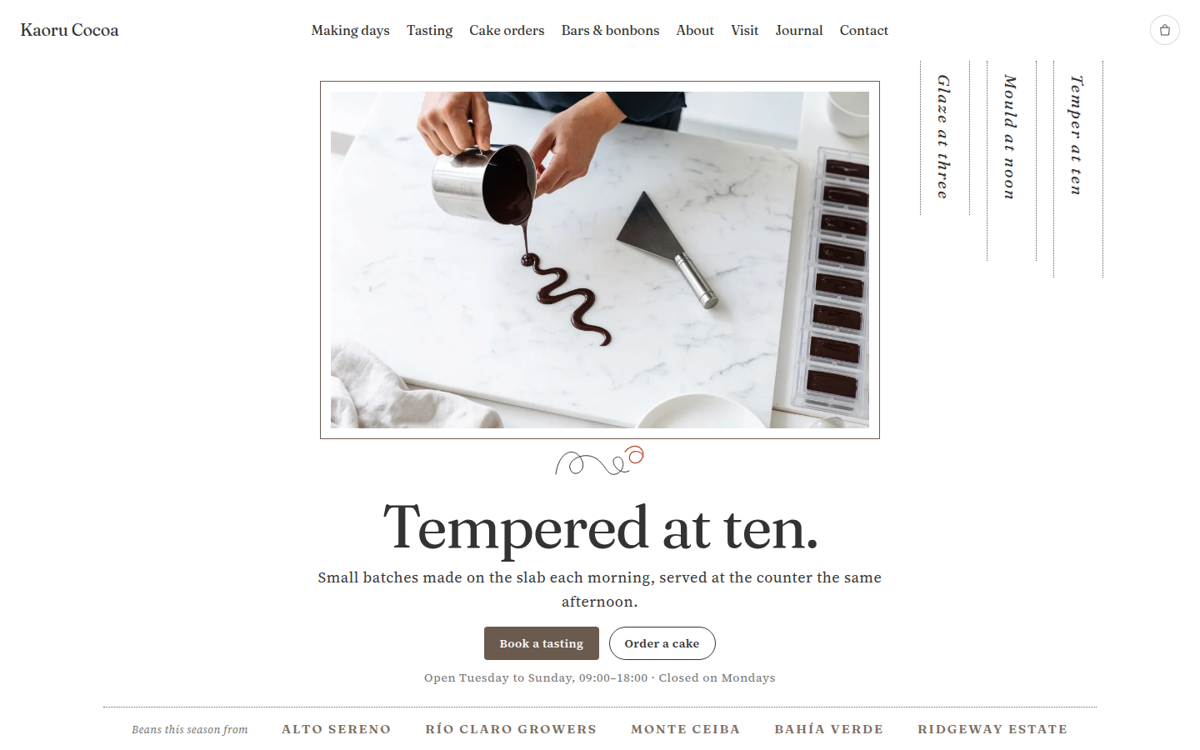
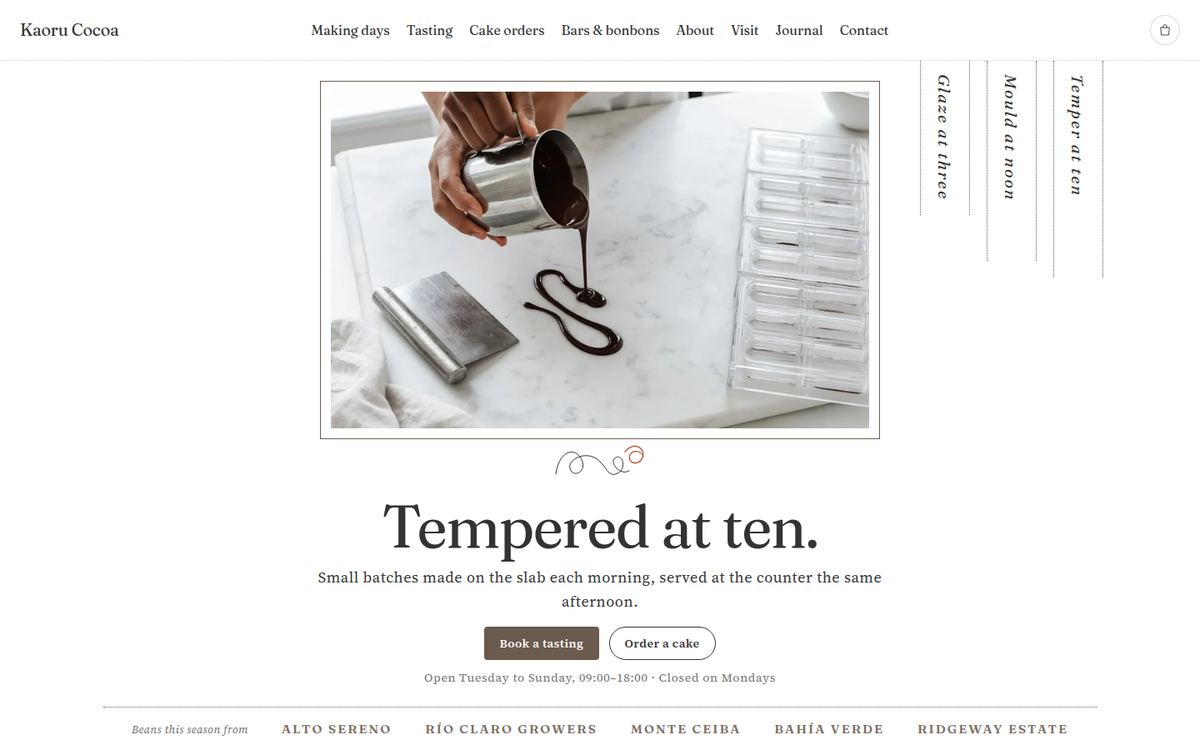
Kaoru Cocoa: stage 2 home fixes (counter spacing/alignment, mobile card order, hero photo 1600w, header rule fallback, screenshot)

Changed region(s): [[0.2775, 0.1227, 0.74, 0.5827], [0.2775, 0.2453, 0.3083, 0.368]]

diff --git a/themes/kaoru-cocoa/style.css b/themes/kaoru-cocoa/style.css
@@ -62,7 +62,7 @@ a:hover { text-decoration: underline; text-decoration-color: var(--kc-accent); }
 .kc-btn .wp-block-button__link:focus-visible { outline: 2px solid var(--kc-ink); outline-offset: 3px; }
 
 /* ---------- header ---------- */
-.kc-head-part { position: sticky; top: 0; z-index: 50; background: var(--kc-base); border-bottom: 1px dotted transparent; }
+.kc-head-part { position: sticky; top: 0; z-index: 50; background: var(--kc-base); border-bottom: 1px dotted var(--kc-hair); }
 @supports (animation-timeline: scroll()) {
 	@media (prefers-reduced-motion: no-preference) {
 		.kc-head-part { animation: kc-rule linear both; animation-timeline: scroll(); animation-range: 0 90px; }
@@ -202,13 +202,14 @@ a:hover { text-decoration: underline; text-decoration-color: var(--kc-accent); }
 
 /* ---------- T2: outline card wall ---------- */
 .kc-counter { max-width: 1192px; margin: var(--kc-gap) auto 0; padding: 0 24px; box-sizing: border-box; }
-.kc-counter__head { display: flex; justify-content: space-between; align-items: flex-end; gap: 40px; margin-bottom: 110px; }
+.kc-counter__head { display: flex; justify-content: space-between; align-items: center; gap: 40px; margin-bottom: 70px; }
 .kc-counter__head .kc-word { margin: 0; }
 .kc-counter__intro { max-width: 480px; }
 .kc-wall { display: grid; grid-template-columns: repeat(3, 384px); column-gap: 20px; justify-content: center; align-items: start; }
 .kc-wall__col { display: flex; flex-direction: column; gap: 40px; min-width: 0; }
 .kc-wall__col--2 { margin-top: 170px; }
 .kc-wall__col--3 { margin-top: 350px; }
+.kc-counter + .kc-slab { margin-top: max(48px, calc(var(--kc-gap) - 180px)); }
 .kc-wall .sp-reveal { --sp-dist: 20px; --sp-dur: .6s; --sp-ease: ease-out; }
 .kc-tagline { display: flex; justify-content: space-between; align-items: center; margin: 0 0 8px; }
 .kc-chip { border: 1px solid var(--kc-brand); border-radius: 3px; padding: 2px 6px; font-family: var(--kc-body); font-weight: 600; font-size: .625rem; line-height: 1.3; letter-spacing: .02em; color: var(--kc-brand); font-style: normal; }
@@ -226,6 +227,7 @@ a:hover { text-decoration: underline; text-decoration-color: var(--kc-accent); }
 .kc-card__img img { display: block; width: 100%; height: 100%; object-fit: cover; border-radius: 5px; }
 .kc-card__img--45 { aspect-ratio: 4 / 5; }
 .kc-card__img--sq { aspect-ratio: 1; }
+.kc-card__img img[src*="card-bar"] { object-position: 50% 0; }
 @media (max-width: 1239px) {
 	.kc-wall { grid-template-columns: repeat(3, minmax(0, 1fr)); }
 	.kc-wall__col--2 { margin-top: 100px; }
@@ -237,7 +239,17 @@ a:hover { text-decoration: underline; text-decoration-color: var(--kc-accent); }
 @media (max-width: 781px) {
 	.kc-counter__head { flex-direction: column; align-items: flex-start; gap: 20px; margin-bottom: 40px; }
 	.kc-wall { grid-template-columns: minmax(0, 420px); }
-	.kc-wall__col--2, .kc-wall__col--3 { margin-top: 40px; }
+	.kc-wall__col--2, .kc-wall__col--3 { margin-top: 0; }
+	.kc-wall { row-gap: 40px; }
+	.kc-wall__col { display: contents; }
+	.kc-wall .kc-cardwrap { order: 0; }
+	.kc-wall__col--1 > .kc-cardwrap:nth-child(1) { order: 1; }
+	.kc-wall__col--2 > .kc-cardwrap:nth-child(1) { order: 2; }
+	.kc-wall__col--3 > .kc-cardwrap:nth-child(1) { order: 3; }
+	.kc-wall__col--1 > .kc-cardwrap:nth-child(2) { order: 4; }
+	.kc-wall__col--2 > .kc-cardwrap:nth-child(2) { order: 5; }
+	.kc-wall__col--3 > .kc-cardwrap:nth-child(2) { order: 6; }
+	.kc-wall .sp-reveal { opacity: 1 !important; transform: none !important; }
 	.kc-card__title { font-size: 2rem; }
 	.kc-price { white-space: nowrap; padding: 8px 20px; }
 }

diff --git a/themes/kaoru-cocoa/patterns/front-hero.php b/themes/kaoru-cocoa/patterns/front-hero.php
@@ -11,7 +11,7 @@
 <!-- wp:group {"align":"full","anchor":"top","className":"kc-hero","layout":{"type":"default"}} -->
 <div id="top" class="wp-block-group alignfull kc-hero"><!-- wp:group {"className":"kc-window","layout":{"type":"default"}} -->
 <div class="wp-block-group kc-window"><!-- wp:image {"sizeSlug":"full","linkDestination":"none","className":"kc-window__photo sp-parallax"} -->
-<figure class="wp-block-image size-full kc-window__photo sp-parallax"><img src="<?php echo esc_url( get_theme_file_uri( 'assets/images/hero-ribbon-slab.webp' ) ); ?>" alt="Maker pouring a ribbon of dark tempered chocolate onto marble beside filled moulds."/></figure>
+<figure class="wp-block-image size-full kc-window__photo sp-parallax"><img src="<?php echo esc_url( get_theme_file_uri( 'assets/images/hero-ribbon-slab.webp' ) ); ?>" alt="Maker pouring a ribbon of dark tempered chocolate onto marble beside a row of clear moulds."/></figure>
 <!-- /wp:image --></div>
 <!-- /wp:group -->
 
